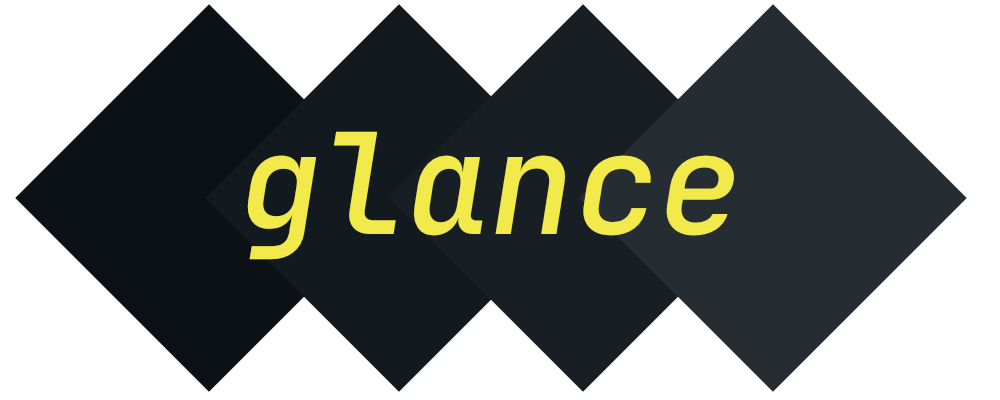
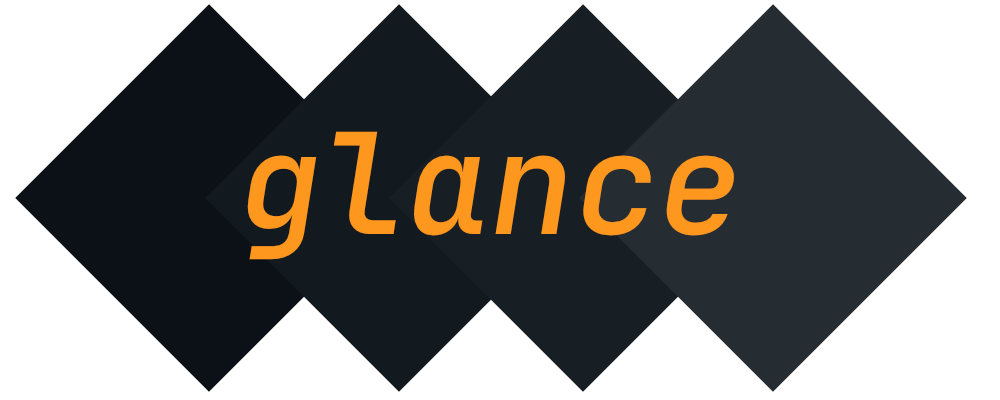
update glance hero to use orange palette color

Changed region(s): [[0.248, 0.33, 0.744, 0.66]]

diff --git a/assets/readme/generate_hero.py b/assets/readme/generate_hero.py
@@ -55,7 +55,7 @@ def parse_args() -> argparse.Namespace:
     parser.add_argument("--seed", type=int, default=7)
     parser.add_argument("--mask-distance", type=float, default=86.0)
     parser.add_argument("--logo-padding", type=int, default=25)
-    parser.add_argument("--logo-color", type=str, default="#F2E94B")
+    parser.add_argument("--logo-color", type=str, default="#FD971F")
     parser.add_argument("--star-color", type=str, default="#FFFFFF")
     parser.add_argument("--skip-mask-export", action="store_true")
     return parser.parse_args()
